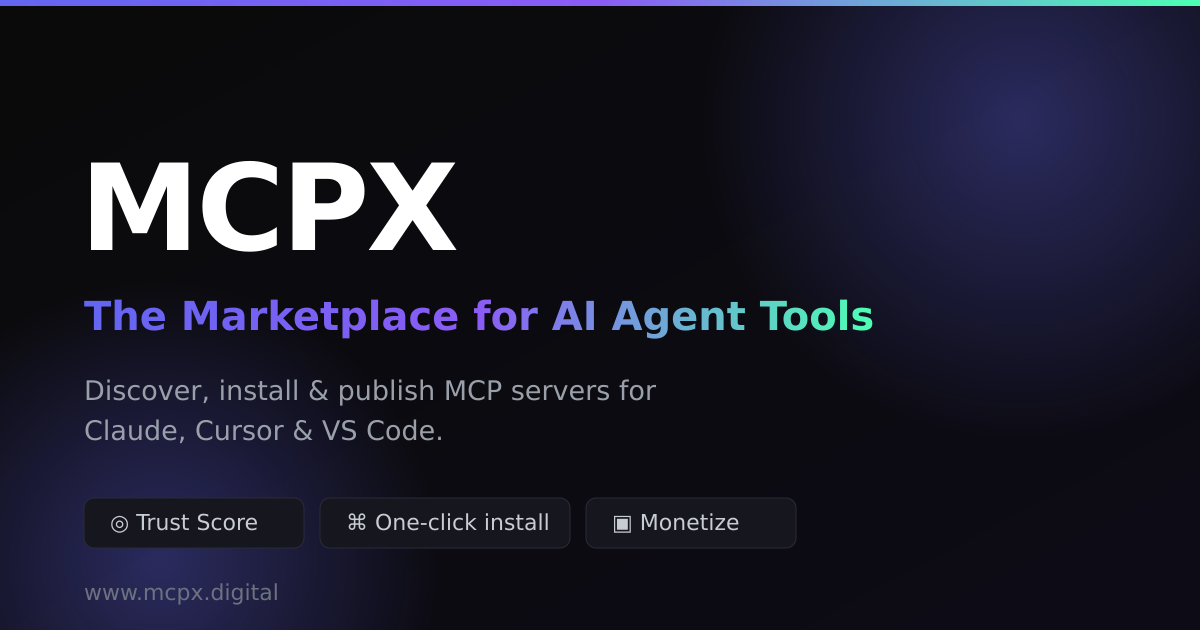
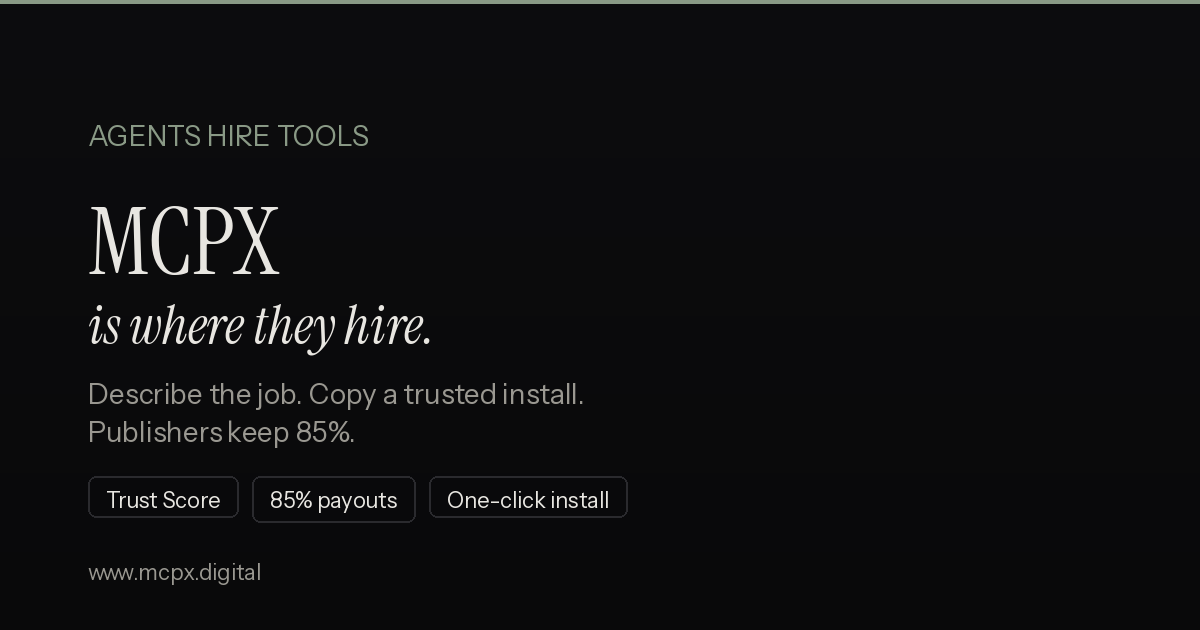
Match GitHub to the editorial site
The live chrome changed in #178, but the repo still opened on mint/indigo
badges, an Aurora share card, and neon seed gradients. Point the README,
OG image, and default palette at paper/ink, and mark REVIEW.md as a
historical snapshot.

diff --git a/src/data/seed.js b/src/data/seed.js
@@ -62,7 +62,7 @@ Official MCP server for GitHub, built by the Model Context Protocol team.
     verified: false,
     trending: true,
     tags: ["github", "git", "ci-cd", "devops"],
-    gradient: "linear-gradient(135deg, #22d3ee, #14b8a6)",
+    gradient: "linear-gradient(135deg, #8a9a86, #9a9891)",
     installs: 0,
     rating: 0,
     review_count: 0,
@@ -116,7 +116,7 @@ Pass allowed directories as positional arguments.`,
     verified: false,
     trending: true,
     tags: ["filesystem", "files", "io"],
-    gradient: "linear-gradient(135deg, #10b981, #22d3ee)",
+    gradient: "linear-gradient(135deg, #10b981, #8a9a86)",
     installs: 0,
     rating: 0,
     review_count: 0,
@@ -168,7 +168,7 @@ Official MCP server from Stripe. Full access to the Stripe API for AI agents.
     verified: false,
     trending: true,
     tags: ["stripe", "payments", "billing", "fintech"],
-    gradient: "linear-gradient(135deg, #22d3ee, #7dd3fc)",
+    gradient: "linear-gradient(135deg, #8a9a86, #c4a574)",
     installs: 0,
     rating: 0,
     review_count: 0,
@@ -275,7 +275,7 @@ Pass your connection string as the last argument.`,
     verified: false,
     trending: false,
     tags: ["postgres", "sql", "database"],
-    gradient: "linear-gradient(135deg, #3b82f6, #22d3ee)",
+    gradient: "linear-gradient(135deg, #3b82f6, #8a9a86)",
     installs: 0,
     rating: 0,
     review_count: 0,
@@ -327,7 +327,7 @@ Real-time web search powered by Brave Search for AI agents.
     verified: false,
     trending: true,
     tags: ["search", "web", "news", "brave"],
-    gradient: "linear-gradient(135deg, #f97316, #22d3ee)",
+    gradient: "linear-gradient(135deg, #f97316, #8a9a86)",
     installs: 0,
     rating: 0,
     review_count: 0,
@@ -471,7 +471,7 @@ Local installs take a \`<FIGMA_API_KEY>\` placeholder — never a real token.`,
     verified: false,
     trending: false,
     tags: ["figma", "design", "ui", "tokens"],
-    gradient: "linear-gradient(135deg, #7dd3fc, #f472b6)",
+    gradient: "linear-gradient(135deg, #c4a574, #f472b6)",
     installs: 0,
     rating: 0,
     review_count: 0,
@@ -523,7 +523,7 @@ Full Linear API access for AI project management agents.
     verified: false,
     trending: false,
     tags: ["linear", "project-management", "issues"],
-    gradient: "linear-gradient(135deg, #22d3ee, #06b6d4)",
+    gradient: "linear-gradient(135deg, #8a9a86, #6f6d67)",
     installs: 0,
     rating: 0,
     review_count: 0,
@@ -578,7 +578,7 @@ Official Notion integration for AI agents.
     verified: false,
     trending: false,
     tags: ["notion", "docs", "database", "productivity"],
-    gradient: "linear-gradient(135deg, #e5e7eb, #22d3ee)",
+    gradient: "linear-gradient(135deg, #e5e7eb, #8a9a86)",
     installs: 0,
     rating: 0,
     review_count: 0,
@@ -926,7 +926,7 @@ Schedule meetings and manage calendars through Cal.com's API.
     verified: false,
     trending: true,
     tags: ["calendar", "scheduling", "meetings", "productivity", "cal.com"],
-    gradient: "linear-gradient(135deg, #0ea5e9, #22d3ee)",
+    gradient: "linear-gradient(135deg, #8a9a86, #8a9a86)",
     installs: 0,
     rating: 0,
     review_count: 0,

diff --git a/server/routes/tiers.js b/server/routes/tiers.js
@@ -88,12 +88,12 @@ const REVENUE_PROJECTIONS = [
 ];
 
 const TECH_STACK = [
-  { icon: "\u25B3", title: "Frontend", tech: "React + Vite", desc: "Fast SPA build, served by the Express API on Railway. One service, automatic deploys from GitHub.", cost: "$0", color: "#4DFFB4" },
-  { icon: "\u25C8", title: "Database + Auth", tech: "SQLite + JWT", desc: "better-sqlite3 on a Railway volume (DB_PATH). Email/password auth with signed JWTs — optional Supabase OAuth when configured.", cost: "$0", color: "#4D9FFF" },
-  { icon: "\u2261", title: "Payments", tech: "Stripe Connect + Solana Pay", desc: "Stripe Connect for fiat (publishers keep 85%). Solana Pay with Phantom live on the configured cluster (default: devnet).", cost: "$0*", color: "#9B6DFF" },
-  { icon: "\u25A3", title: "Hosting", tech: "Railway", desc: "Single Node service for API + static SPA. Volume-backed SQLite; GitHub auto-deploys.", cost: "$5+", color: "#FF6DB4" },
-  { icon: "\u2315", title: "Search & Discovery", tech: "SQLite FTS / API filters", desc: "Marketplace search and filters run in-process against SQLite — no Meilisearch dependency.", cost: "$0", color: "#FFAA4D" },
-  { icon: "\u25CE", title: "Observability", tech: "Pino + Sentry (optional)", desc: "Structured server logs via pino; optional Sentry when SENTRY_DSN is set.", cost: "$0", color: "#4DFFB4" },
+  { icon: "\u25B3", title: "Frontend", tech: "React + Vite", desc: "Fast SPA build, served by the Express API on Railway. One service, automatic deploys from GitHub.", cost: "$0", color: "#8a9a86" },
+  { icon: "\u25C8", title: "Database + Auth", tech: "SQLite + JWT", desc: "better-sqlite3 on a Railway volume (DB_PATH). Email/password auth with signed JWTs — optional Supabase OAuth when configured.", cost: "$0", color: "#9a9891" },
+  { icon: "\u2261", title: "Payments", tech: "Stripe Connect + Solana Pay", desc: "Stripe Connect for fiat (publishers keep 85%). Solana Pay with Phantom live on the configured cluster (default: devnet).", cost: "$0*", color: "#c4a574" },
+  { icon: "\u25A3", title: "Hosting", tech: "Railway", desc: "Single Node service for API + static SPA. Volume-backed SQLite; GitHub auto-deploys.", cost: "$5+", color: "#c45c4a" },
+  { icon: "\u2315", title: "Search & Discovery", tech: "SQLite FTS / API filters", desc: "Marketplace search and filters run in-process against SQLite — no Meilisearch dependency.", cost: "$0", color: "#a8b6a4" },
+  { icon: "\u25CE", title: "Observability", tech: "Pino + Sentry (optional)", desc: "Structured server logs via pino; optional Sentry when SENTRY_DSN is set.", cost: "$0", color: "#8a9a86" },
 ];
 
 // GET /api/tiers

diff --git a/src/data/servers.js b/src/data/servers.js
@@ -12,7 +12,7 @@ export const MCP_SERVERS = [
     verified: true,
     tags: ["database", "sql", "postgres"],
     trending: true,
-    gradient: "linear-gradient(135deg, #22d3ee, #38bdf8)",
+    gradient: "linear-gradient(135deg, #8a9a86, #a8b6a4)",
     weeklyGrowth: null,
     revenue: null,
   },
@@ -29,7 +29,7 @@ export const MCP_SERVERS = [
     verified: true,
     tags: ["payments", "stripe", "billing"],
     trending: true,
-    gradient: "linear-gradient(135deg, #14b8a6, #ec4899)",
+    gradient: "linear-gradient(135deg, #9a9891, #ec4899)",
     weeklyGrowth: null,
     revenue: null,
   },
@@ -63,7 +63,7 @@ export const MCP_SERVERS = [
     verified: true,
     tags: ["github", "ci-cd", "devops"],
     trending: true,
-    gradient: "linear-gradient(135deg, #38bdf8, #14b8a6)",
+    gradient: "linear-gradient(135deg, #a8b6a4, #9a9891)",
     weeklyGrowth: null,
     revenue: null,
   },
@@ -80,7 +80,7 @@ export const MCP_SERVERS = [
     verified: false,
     tags: ["ml", "models", "inference"],
     trending: false,
-    gradient: "linear-gradient(135deg, #fbbf24, #22d3ee)",
+    gradient: "linear-gradient(135deg, #fbbf24, #8a9a86)",
     weeklyGrowth: null,
     revenue: null,
   },
@@ -114,7 +114,7 @@ export const MCP_SERVERS = [
     verified: true,
     tags: ["notion", "docs", "productivity"],
     trending: false,
-    gradient: "linear-gradient(135deg, #22d3ee, #14b8a6)",
+    gradient: "linear-gradient(135deg, #8a9a86, #9a9891)",
     weeklyGrowth: null,
     revenue: null,
   },
@@ -131,7 +131,7 @@ export const MCP_SERVERS = [
     verified: false,
     tags: ["vercel", "deploy", "hosting"],
     trending: false,
-    gradient: "linear-gradient(135deg, #14b8a6, #38bdf8)",
+    gradient: "linear-gradient(135deg, #9a9891, #a8b6a4)",
     weeklyGrowth: null,
     revenue: null,
   },

diff --git a/server/seed.js b/server/seed.js
@@ -357,15 +357,15 @@ const servers = [
 // ─── Insert servers ───
 
 const GRADIENTS = [
-  "linear-gradient(135deg, #4DFFB4, #4D9FFF)",
-  "linear-gradient(135deg, #9B6DFF, #FF6DB4)",
-  "linear-gradient(135deg, #FF6DB4, #FFAA4D)",
-  "linear-gradient(135deg, #4D9FFF, #4DFFB4)",
-  "linear-gradient(135deg, #FFAA4D, #4D9FFF)",
-  "linear-gradient(135deg, #2563eb, #7c3aed)",
-  "linear-gradient(135deg, #00b4d8, #0077b6)",
-  "linear-gradient(135deg, #f59e0b, #ef4444)",
-  "linear-gradient(135deg, #10b981, #3b82f6)",
+  "linear-gradient(135deg, #8a9a86, #e8e6e1)",
+  "linear-gradient(135deg, #c4a574, #8a9a86)",
+  "linear-gradient(135deg, #c45c4a, #c4a574)",
+  "linear-gradient(135deg, #9a9891, #e8e6e1)",
+  "linear-gradient(135deg, #c4a574, #9a9891)",
+  "linear-gradient(135deg, #6f6d67, #8a9a86)",
+  "linear-gradient(135deg, #8a9a86, #6f6d67)",
+  "linear-gradient(135deg, #c4a574, #c45c4a)",
+  "linear-gradient(135deg, #8a9a86, #c4a574)",
 ];
 
 const insertServer = db.prepare(`

diff --git a/index.html b/index.html
@@ -21,7 +21,7 @@
     <meta property="og:image" content="https://www.mcpx.digital/og-image.png" />
     <meta property="og:image:width" content="1200" />
     <meta property="og:image:height" content="630" />
-    <meta property="og:image:alt" content="MCPX — The Marketplace for AI Agent Tools" />
+    <meta property="og:image:alt" content="MCPX — Agents hire tools. MCPX is where they hire." />
     <meta name="twitter:card" content="summary_large_image" />
     <meta name="twitter:title" content="MCPX - The Marketplace for AI Agent Tools" />
     <meta name="twitter:description" content="Discover, install, and publish Model Context Protocol servers that supercharge Claude, Cursor, and VS Code." />

diff --git a/server/routes/servers.js b/server/routes/servers.js
@@ -466,11 +466,11 @@ router.post("/", requireAuth, (req, res) => {
   }
 
   const GRADIENTS = [
-    "linear-gradient(135deg, #4DFFB4, #4D9FFF)",
-    "linear-gradient(135deg, #9B6DFF, #FF6DB4)",
-    "linear-gradient(135deg, #FF6DB4, #FFAA4D)",
-    "linear-gradient(135deg, #4D9FFF, #4DFFB4)",
-    "linear-gradient(135deg, #FFAA4D, #4D9FFF)",
+    "linear-gradient(135deg, #8a9a86, #e8e6e1)",
+    "linear-gradient(135deg, #c4a574, #8a9a86)",
+    "linear-gradient(135deg, #c45c4a, #c4a574)",
+    "linear-gradient(135deg, #9a9891, #e8e6e1)",
+    "linear-gradient(135deg, #c4a574, #9a9891)",
   ];
 
   const id = uuid();

diff --git a/README.md b/README.md
@@ -1,14 +1,16 @@
 # MCPX — The Marketplace for AI Agent Tools
 
-[![Live](https://img.shields.io/badge/Live-www.mcpx.digital-4DFFB4?style=flat-square&logo=globe&logoColor=black)](https://www.mcpx.digital)
-[![License: MIT](https://img.shields.io/badge/License-MIT-6366f1?style=flat-square)](LICENSE)
-[![Node.js](https://img.shields.io/badge/Node.js-20%2B-43853d?style=flat-square&logo=node.js&logoColor=white)](https://nodejs.org)
-[![React](https://img.shields.io/badge/React-19-61dafb?style=flat-square&logo=react&logoColor=black)](https://react.dev)
-[![PRs Welcome](https://img.shields.io/badge/PRs-welcome-brightgreen?style=flat-square)](https://github.com/TheoryofShadows/Mcp/pulls)
+[![Live](https://img.shields.io/badge/Live-www.mcpx.digital-8A9A86?style=flat-square&logo=globe&logoColor=09090b)](https://www.mcpx.digital)
+[![License: MIT](https://img.shields.io/badge/License-MIT-09090b?style=flat-square)](LICENSE)
+[![Node.js](https://img.shields.io/badge/Node.js-20%2B-6F6D67?style=flat-square&logo=node.js&logoColor=e8e6e1)](https://nodejs.org)
+[![React](https://img.shields.io/badge/React-19-E8E6E1?style=flat-square&logo=react&logoColor=09090b)](https://react.dev)
+[![PRs Welcome](https://img.shields.io/badge/PRs-welcome-8A9A86?style=flat-square&logoColor=09090b)](https://github.com/TheoryofShadows/Mcp/pulls)
 
-> **Discover, install, publish, and get paid for Model Context Protocol servers** — the tools that give Claude, Cursor, and VS Code real-world capabilities.
+> **Agents hire tools. MCPX is where they hire.** Describe the job, copy a trusted install, or publish and keep 85%.
 
 **[Try it → www.mcpx.digital](https://www.mcpx.digital)** · **[Publish & earn 85%](https://www.mcpx.digital/submit)** · [Marketplace](https://www.mcpx.digital/marketplace) · [Pricing](https://www.mcpx.digital/pricing) · [Docs](docs/README.md) · [Launch kit](docs/LAUNCH.md)
+
+![MCPX — Agents hire tools](public/og-image.png)
 
 If MCPX helps you discover or monetize MCP tools, a GitHub **⭐ star** on this repo helps others find it.
 
@@ -30,7 +32,7 @@ There are thousands of MCP servers. Most people don't know they exist, can't tel
           │   ──▶  Playwright MCP  ──▶  drives a real browser
           │   ──▶  Postgres MCP    ──▶  queries your database
           │   ──▶  Stripe MCP      ──▶  handles payments
-          └── …34 servers today and growing
+          └── …live catalog (47 and growing)
 ```
 
 ---

diff --git a/CHANGELOG.md b/CHANGELOG.md
@@ -11,6 +11,8 @@ continuously from `main`, so "released" means "merged to `main` and live".
   Sans, IBM Plex Mono, sage accent). Replaces the Aurora cyan/Syne look.
   Same Express + SQLite + Stripe product, catalog, Trust Scores, and
   job-to-install matcher.
+- **Share card and README** — `og-image.png` and the GitHub README badges
+  match that paper/ink look. The old indigo/cyan social card is gone.
 
 ### Added
 - **Job-to-install front door** — homepage matcher turns a job ("open PRs",

diff --git a/REVIEW.md b/REVIEW.md
@@ -1,5 +1,11 @@
 # MCPX Marketplace - Full Code Review
 
+> **Historical snapshot, not the current repo.** This note was written when the
+> README was still the Vite template, there were no tests, Stripe was missing,
+> and the UI used Syne / DM Sans with cyan accents. `main` now has a test
+> suite, Stripe Connect, docs, and the editorial paper/ink site. Read
+> [README](README.md) and [CHANGELOG](CHANGELOG.md) for what is actually shipped.
+
 ## As Elon Musk Would Say It
 
 ---
